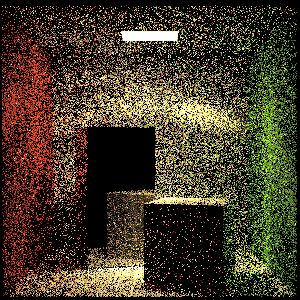
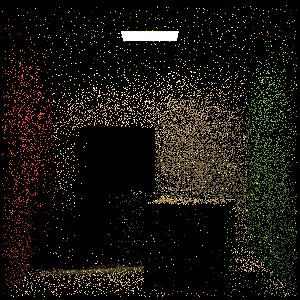
..

diff --git a/src/core/integrators/pt.cpp b/src/core/integrators/pt.cpp
@@ -252,6 +252,7 @@ namespace miyuki::core {
             Spectrum beta(1);
             bool specular = false;
             auto vertices = arena.allocN<PathVertex>(maxDepth + 1);
+            float bsdfSamplingFraction = training ? 0.5f : 0.1f;
 //            PathVertex vertices[12];
             Intersection intersection, prevIntersection;
             if (!scene->intersect(ray, intersection)) {
@@ -265,7 +266,7 @@ namespace miyuki::core {
                 for (int i = 0; i < nVertices; i++) {
                     vertices[i].L += vertices[i].beta * L;
                 }
-                Li += L;
+                Li += beta * L;
             };
             auto updateBeta = [&](const Spectrum &k) {
                 beta *= k;
@@ -305,7 +306,7 @@ namespace miyuki::core {
                         radiance = weight * intersection.material->emission->evaluate(sp)
                                    * intersection.material->emissionStrength->evaluate(sp);
                     }
-                    addRadiance(beta * radiance);
+                    addRadiance(radiance);
                 }
 
                 vertices[nVertices].p = intersection.p;
@@ -329,18 +330,23 @@ namespace miyuki::core {
 
                         if (lightPdf > 0 && !IsBlack(f) && visibilityTester.visible(*scene)) {
                             Spectrum radiance;
+                            Float weight = 1.0f;
                             if (specular) {
                                 radiance = f * lightSample.Li / lightPdf;
                             } else {
-                                auto scatteringPdf = 0.5f * bsdf->evaluatePdf(sp, wo,
-                                                                              intersection.worldToLocal(lightSample.wi))
-                                                     + 0.5f * sTree->pdf(intersection.p, lightSample.wi);
+                                auto scatteringPdf = bsdfSamplingFraction
+                                                     * bsdf->evaluatePdf(sp, wo,
+                                                                         intersection.worldToLocal(lightSample.wi))
+                                                     + (1.0f - bsdfSamplingFraction) *
+                                                       sTree->pdf(intersection.p, lightSample.wi);
                                 MIYUKI_CHECK(!std::isnan(scatteringPdf));
                                 MIYUKI_CHECK(scatteringPdf > 0.0f);
-                                auto weight = MisWeight(lightPdf, scatteringPdf);
+                                weight = MisWeight(lightPdf, scatteringPdf);
                                 radiance = f * lightSample.Li / lightPdf * weight;
                             }
-                            addRadiance(beta * radiance);
+                            sTree->deposit(intersection.p,lightSample.wi,
+                                           Spectrum( weight * lightSample.Li / lightPdf).luminance());
+                            addRadiance(radiance);
                         }
                     }
                 }
@@ -350,18 +356,26 @@ namespace miyuki::core {
                     bsdfSample.wo = wo;
                     auto u0 = sampler.next1D();
                     auto u = sampler.next2D();
-                    if (u0 < 0.5f) {
+                    if (u0 < bsdfSamplingFraction) {
                         bsdf->sample(u, sp, bsdfSample);
-                        bsdfSample.pdf *= 0.5f;
+                        bsdfSample.pdf *= bsdfSamplingFraction;
+                        if (!(bsdfSample.sampledType & BSDF::ESpecular)) {
+                            auto alternatePdf = sTree->pdf(intersection.p, intersection.localToWorld(bsdfSample.wi)) *
+                                                (1.0f - bsdfSamplingFraction);
+                            updateBeta(MisWeight(bsdfSample.pdf, alternatePdf));
+                        }
                     } else {
                         auto w = sTree->sample(intersection.p, u);
                         bsdfSample.wi = intersection.worldToLocal(w);
                         bsdfSample.pdf = sTree->pdf(intersection.p, w);
                         bsdfSample.f = bsdf->evaluate(sp, bsdfSample.wo, bsdfSample.wi);
                         bsdfSample.sampledType = BSDF::EAllButSpecular;
-                        bsdfSample.pdf *= 0.5f;
-                        if(bsdfSample.pdf < 0.0f) {
-                            log::log("{} {}\n",  bsdfSample.pdf , sTree->eval(intersection.p, w)/ sTree->pdf(intersection.p, w));
+                        bsdfSample.pdf *= 1.0f - bsdfSamplingFraction;
+                        auto alternatePdf = bsdf->evaluatePdf(sp, bsdfSample.wo, bsdfSample.wi) * bsdfSamplingFraction;
+                        updateBeta(MisWeight(bsdfSample.pdf, alternatePdf));
+                        if (bsdfSample.pdf < 0.0f) {
+                            log::log("{} {}\n", bsdfSample.pdf,
+                                     sTree->eval(intersection.p, w) / sTree->pdf(intersection.p, w));
                         }
                     }
                     MIYUKI_CHECK(!std::isnan(bsdfSample.pdf));
@@ -395,7 +409,7 @@ namespace miyuki::core {
                 prevIntersection = intersection;
                 intersection = Intersection();
                 if (!scene->intersect(ray, intersection)) {
-                    addRadiance(beta * backgroundLi(ray));
+                    addRadiance(backgroundLi(ray));
                     break;
                 }
             }
@@ -428,9 +442,9 @@ namespace miyuki::core {
         });
         uint32_t pass = 0;
         uint32_t accumulatedSamples = 0;
-        for (pass = 0; pass < 2; pass++) {
-            auto samples = 20;
-            accumulatedSamples += samples * pass;
+        for (pass = 0; pass < 7; pass++) {
+            auto samples = 1ull << pass;
+            accumulatedSamples += samples;
             ParallelFor(0, tiles.size(), [=, &tiles, &film](int64_t i, uint64_t) {
                 auto sampler = settings.sampler->clone();
                 sampler->startSample(accumulatedSamples);
@@ -444,7 +458,7 @@ namespace miyuki::core {
                             sampler->startNextSample();
                             settings.camera->generateRay(sampler->next2D(), sampler->next2D(), Point2i(x, y),
                                                          Point2i(film.width, film.height), sample);
-                            Li(true, true, arena, *sampler, sample.ray);
+                            Li(false, true, arena, *sampler, sample.ray);
                             arena.reset();
                         }
                     }
@@ -454,21 +468,21 @@ namespace miyuki::core {
             sTree->refine(12000 * std::sqrt(1u << (int32_t) pass));
             log::log("Done refining SDTree\n");
         }
-        int cnt = 0;
-        for (auto &i:sTree->nodes) {
-            if (i.isLeaf()) {
-                auto &tree = i.dTree.sampling;
-                RGBAImage image(int2(512, 512));
-                for (int j = 0; j < 512; j++) {
-                    for (int i = 0; i < 512; i++) {
-                        auto pdf = tree.pdf(float2(i, j) / float2(image.dimension));
-                        pdf = std::log(1.0 + pdf);
-                        image(i, j) = float4(Spectrum(pdf), 1.0f);
-                    }
-                }
-                image.write(fmt::format("tree{}.png", cnt++), 1.0f);
-            }
-        }
+//        int cnt = 0;
+//        for (auto &i:sTree->nodes) {
+//            if (i.isLeaf()) {
+//                auto &tree = i.dTree.sampling;
+//                RGBAImage image(int2(512, 512));
+//                for (int j = 0; j < 512; j++) {
+//                    for (int i = 0; i < 512; i++) {
+//                        auto pdf = tree.pdf(float2(i, 511 -j) / float2(image.dimension));
+//                        pdf = std::log(1.0 + pdf) / std::log(10);
+//                        image(i, j) = float4(Spectrum(pdf), 1.0f);
+//                    }
+//                }
+//                image.write(fmt::format("tree{}.png", cnt++), 1.0f);
+//            }
+//        }
         log::log("Start Rendering\n");
         {
             ParallelFor(0, tiles.size(), [=, &tiles, &film, &reporter](int64_t i, uint64_t) {
@@ -477,6 +491,7 @@ namespace miyuki::core {
                 auto &tile = tiles[i];
                 for (int y = tile.pMin.y(); cont() && y < tile.pMax.y(); y++) {
                     for (int x = tile.pMin.x(); x < tile.pMax.x(); x++) {
+                        sampler->startSample(accumulatedSamples);
                         sampler->startPixel(Point2i(x, y), Point2i(film.width, film.height));
                         for (int s = 0; s < spp && cont(); s++) {
                             CameraSample sample;

diff --git a/src/core/integrators/sdtree.hpp b/src/core/integrators/sdtree.hpp
@@ -49,6 +49,11 @@ namespace miyuki::core {
             for (int i = 0; i < 4; i++) {
                 _sum[i].set(float(node._sum[i]));
             }
+
+        }
+
+        QTreeNode(const QTreeNode &node) {
+            copyFrom(node);
         }
 
         QTreeNode &operator=(const QTreeNode &node) {
@@ -111,9 +116,12 @@ namespace miyuki::core {
         float pdf(const Point2f &p, std::vector<QTreeNode> &nodes) const {
             auto idx = childIndex(p);
             auto s = sum();
-            // MIYUKI_CHECK(s > 0);
+            MIYUKI_CHECK(s >= 0);
             MIYUKI_CHECK(!std::isnan(s));
             auto factor = s == 0.0f ? 0.25f : _sum[idx].value() / s;
+            if(factor < 0){
+                log::log("{} {} {}\n",factor, _sum[idx].value(), s);
+            }
             MIYUKI_CHECK(factor > 0);
             if (child(idx, nodes)) {
                 return 4.0f * factor * child(idx, nodes)->pdf((p - offset(idx)) * 2.0f, nodes);
@@ -151,9 +159,9 @@ namespace miyuki::core {
             auto up = m[x];
             auto down = m[2 + x];
             total = up + down;
-            if (u[0] < up / total) {
+            if (u[1] < up / total) {
                 y = 0;
-                u[0] /= up / total;
+                u[1] /= up / total;
             } else {
                 y = 1;
                 u[1] = (u[1] - up / total) / (down / total);
@@ -172,6 +180,11 @@ namespace miyuki::core {
             int idx = childIndex(p);
             _sum[idx].add(e);
             auto c = child(idx, nodes);
+            MIYUKI_CHECK(e >= 0);
+            MIYUKI_CHECK(_sum[idx].value() >= 0);
+            if(!(_sum[idx].value() >= 0)){
+                log::log("{}",_sum[idx].value() >= 0);
+            }
             if (c) {
                 c->deposit((p - offset(idx)) * 2.0f, e, nodes);
             }
@@ -200,7 +213,7 @@ namespace miyuki::core {
         while (phi < 0)
             phi += 2.0 * Pi;
 
-        return Point2f(phi / (2 * Pi),(cosTheta + 1) / 2);
+        return Point2f(phi / (2 * Pi) ,(cosTheta + 1) / 2);
     }
 
     class DTree {
@@ -238,7 +251,7 @@ namespace miyuki::core {
         }
 
         Float eval(const Point2f &u) {
-            return nodes[0].eval(u, nodes) ;/// weight.value();
+            return nodes[0].eval(u, nodes);/// weight.value();
         }
 
         void _build() {
@@ -250,7 +263,7 @@ namespace miyuki::core {
                         node._sum[i].set(c->sum());
                     }
                 }
-                //log::log("sum: {}\n",node.sum());
+            //    log::log("sum: {}\n",node.sum());
                 return node.sum();
             };
             sum.set(updateSum(nodes.front(), updateSum));
@@ -267,7 +280,7 @@ namespace miyuki::core {
             stack.push({0, 0, &prev});
             sum.set(0.0f);
             auto total = prev.sum.value();
-//            log::log("{} {}\n", total, threshold);
+            log::log("{} {}\n", total, threshold);
             while (!stack.empty()) {
                 auto node = stack.top();
                 stack.pop();
@@ -346,7 +359,8 @@ namespace miyuki::core {
         STreeNode() = default;
 
         STreeNode(const STreeNode &other) : nSample((int) other.nSample), _children(other._children),
-                                            axis(other.axis), _isLeaf(other._isLeaf), dTree(other.dTree) {}
+                                            axis(other.axis), _isLeaf(other._isLeaf), dTree(other.dTree) {
+        }
 
 
         [[nodiscard]] bool isLeaf() const {
@@ -436,7 +450,7 @@ namespace miyuki::core {
         }
 
         void deposit(Point3f p, const Vec3f &w, Float irradiance) {
-            if (irradiance >= 0 && !std::isnan(irradiance)) {
+            if (irradiance > 0 && !std::isnan(irradiance)) {
                 nodes.at(0).deposit(box.offset(p), w, irradiance, nodes);
             }
         }

diff --git a/include/miyuki.renderer/atmoicfloat.hpp b/include/miyuki.renderer/atmoicfloat.hpp
@@ -29,22 +29,19 @@
 
 namespace miyuki {
     class AtomicFloat {
-        std::atomic<uint32_t> bits;
+        std::atomic<float> val;
     public:
-        explicit AtomicFloat(Float v = 0) : bits(floatBitsToUint(v)) {}
+        explicit AtomicFloat(Float v = 0) : val(v) {}
 
-        AtomicFloat(const AtomicFloat &rhs) : bits(uint32_t(rhs.bits)) {}
+        AtomicFloat(const AtomicFloat &rhs) : val((float)rhs.val) {}
 
         void add(Float v) {
-            uint32_t oldBits = bits, newBits;
-            do {
-                newBits = floatBitsToUint(uintBitsToFloat(oldBits) + v);
-            } while (!bits.compare_exchange_weak(oldBits, newBits));
-
+            auto current = val.load();
+            while (!val.compare_exchange_weak(current, current + v)){}
         }
 
         float value() const {
-            return uintBitsToFloat(bits);
+            return val.load();
         }
 
         explicit operator float() const {
@@ -52,7 +49,7 @@ namespace miyuki {
         }
 
         void set(Float v){
-            bits = floatBitsToUint(v);
+            val = v;
         }
     };
 }

diff --git a/tests/test-sdtree.cpp b/tests/test-sdtree.cpp
@@ -167,8 +167,10 @@ namespace miyuki::core {
         }
         log::log("{}\n", sum / cnt);
 
-        auto v = dirToCanonical(canonicalToDir(Point2f{0.3, 0.7}));
-        log::log("{} {}\n", v.x(), v.y());
+        auto v = normalize(Vec3f{-0.3, -0.7,-0.2});
+        log::log("{} {} {}\n", v.x(), v.y(), v.z());
+        v = canonicalToDir(dirToCanonical(v));
+        log::log("{} {} {}\n", v.x(), v.y(), v.z());
     }
 }
 
